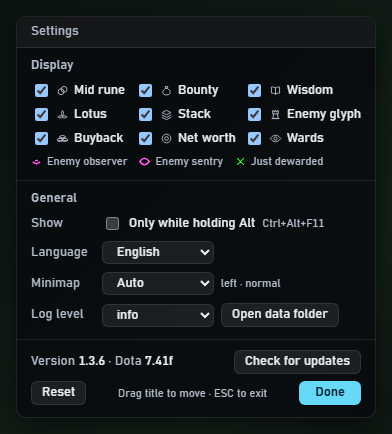
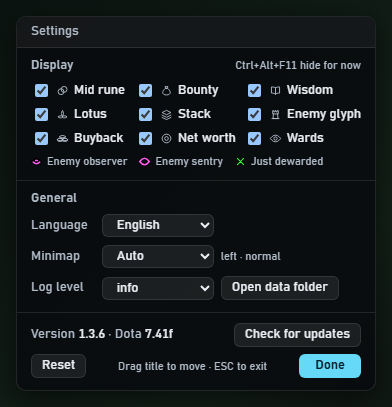
feat: 去掉「按住 Alt 才显示」和 Alt 检测，Ctrl+Alt+F11 改为临时隐藏；倒计时挪到计时牌下、缩到 Plus 的八成
- 对局中一直显示；Ctrl+Alt+F11 临时收起/恢复，不存盘，换下一局自动恢复
- 删除 altkey.rs，程序不再读按键状态；设置卡片去掉「显示方式」，热键提示放在「显示」标题右边
- 倒计时顶边 88 → 42、块缩放 0.72 → 0.58，塞在计时牌和按住 Alt 时的 UNTIL NIGHT 之间
- README、设计文档、待验清单同步

diff --git a/ui/js/main.js b/ui/js/main.js
@@ -1,4 +1,4 @@
-import { connectSource, onAltChange, isTauri } from "./source.js";
+import { connectSource, onToggleHide, isTauri } from "./source.js";
 import { CachePool } from "./cachepool.js";
 import { MatchTracker } from "./match.js";
 import { loadConstants, computeTimers } from "./timers.js";
@@ -6,7 +6,7 @@ import { EventTracker, loadTowers } from "./events.js";
 import { loadPrices, EconTracker } from "./networth.js";
 import { initPanel, render } from "./render.js";
 import { WardTracker, deadTowers } from "./minimap.js";
-import { loadSettings, saveSettings, onSettingsChange } from "./settings.js";
+import { loadSettings, onSettingsChange } from "./settings.js";
 import { initEditor, setEditorOpen } from "./editor.js";
 import { checkUpdate } from "./update.js";
 import { readDotaHud, minimapOpts } from "./dotahud.js";
@@ -24,14 +24,16 @@ if (isTauri()) {
 }
 
 const pool = new CachePool(), match = new MatchTracker(), econ = new EconTracker();
-let tracker = null, C = null, alt = false, last = null, editMode = false;
+let tracker = null, C = null, last = null, editMode = false;
+// 临时隐藏（Ctrl+Alt+F11）：只在内存里，换下一局、重启程序都自动恢复显示
+let hidden = false;
 let wards = null;
 let lastAt = 0;              // 上一包到达的墙钟时间，用来判断 GSI 是不是断了
 // Dota 自己的 HUD 设置：启动时读一次，之后每局开始再读（见 dotahud.js）
 readDotaHud();
 
 // **断流多久算断。** Dota 崩了、被关掉、或者网络断了之后不会有任何通知，
-// `last` 会一直留着最后一包——按住 Alt 仍然显示一份**冻结**的旧面板：
+// `last` 会一直留着最后一包——覆盖层仍然显示一份**冻结**的旧面板：
 // 倒计时不动、净资产不动，而它看起来和正常面板一模一样，比不显示更坏。
 //
 // 阈值要分两档，因为 GSI 配置里 `heartbeat` 是 **30 秒**（见 `gsicfg.rs`）：
@@ -71,7 +73,7 @@ addEventListener("keydown", (ev) => { if (ev.key === "Escape") exitEdit(); });
 connectSource(async (pkt) => {
   const st = pool.update(pkt);
   const info = match.update(st);
-  if (info.newMatch) { pool.reset(); readDotaHud(); }
+  if (info.newMatch) { pool.reset(); readDotaHud(); hidden = false; }
   C = await loadConstants(info.modeOrDefault);
   if (!tracker || info.newMatch) tracker = new EventTracker(C, towers);
   tracker.C = C;                       // 模式判定完成后热切常数
@@ -94,13 +96,7 @@ connectSource(async (pkt) => {
   lastAt = Date.now();
 });
 
-// **只在真的变化时才记日志。** Rust 那边每秒会无条件重发一次当前状态
-// （见 `altkey.rs` 的失步自愈），不过滤的话日志一秒一条。
-// debug 级，默认的 info 下不落盘；真遇上"Alt 变成切换键"再把级别调到 debug 看这条。
-onAltChange((d) => {
-  if (d !== alt) send("debug", `[alt] ${alt} -> ${d}`);
-  alt = d;
-});
+onToggleHide(() => { hidden = !hidden; send("info", `[hide] 临时隐藏 = ${hidden}`); });
 
 // 没有 GSI 数据时的占位，用于编辑态——调设置、看位置对不对，恰恰要在开游戏之前做，
 // 若等到有数据才渲染，没开 Dota 时面板根本不出现。
@@ -127,10 +123,10 @@ setInterval(() => {
   const { st, info } = cur;
   const e = cur.econ;
   render({
-    // 不勾「按住 Alt 才显示」（alwaysShow，默认）也**不绕过 inMatch**：只在对局中显示，
-    // 主菜单里照样消失——它的意思是"不用按 Alt"，不是"永远杵在桌面上"。
+    // **对局中一直显示**（2026-10-14 起；原先有「按住 Alt 才显示」可选，连同 Alt 检测一起去掉了）。
+    // 不绕过 inMatch：主菜单里照样消失，不会杵在桌面上。Ctrl+Alt+F11 可以临时收起。
     // 编辑态则要绕过，调设置这件事恰恰要在开游戏之前做；断流时同理，编辑态里照样看得到最后一刻。
-    visible: editMode || ((alt || cfg.alwaysShow) && info.inMatch && !stale),
+    visible: editMode || (info.inMatch && !stale && !hidden),
     editMode,
     timers: C ? computeTimers(info.clock, C) : [],
     glyph: tracker ? tracker.enemyGlyph(info) : { ready: true, remaining: 0 },
@@ -147,19 +143,17 @@ setInterval(() => {
     ` nw=${e.networth} gpm=${e.gpm}`;
 }, 250);
 
-// 开发快捷键：和正式版同一套热键——Ctrl+Alt+F11 按住 Alt 才显示、Ctrl+Alt+F10 编辑态，
-// v / e 是简写。**v 改的就是卡片上那个「按住 Alt 才显示」**，不另起一份状态——原先是独立的
-// forceShow，两者互不知道。见 design/overlay.md「只有一个值，卡片要跟着它变」。
+// 开发快捷键：和正式版同一套热键——Ctrl+Alt+F11 临时隐藏、Ctrl+Alt+F10 编辑态，v / e 是简写。
 //
 // **只在带 body.dev 的开发页生效**（index.html 没有它）：Tauri 里这两个热键由 Rust 注册成
 // 全局热键，编辑态下 webview 有焦点也会收到同一个按键，这里再切一次就等于没切。
-// 项目主页的 demo 也不带，那里只该有 Alt。
+// 项目主页的 demo 也不带。
 addEventListener("keydown", (ev) => {
   if (!document.body.classList.contains("dev")) return;
   const hot = ev.ctrlKey && ev.altKey;
   const toggleShow = hot ? ev.key === "F11" : ev.key === "v" && !ev.ctrlKey && !ev.altKey;
   const toggleEdit = hot ? ev.key === "F10" : ev.key === "e" && !ev.ctrlKey && !ev.altKey;
   if (toggleShow || toggleEdit) ev.preventDefault();   // F11 在浏览器里是全屏
-  if (toggleShow) saveSettings({ ...cfg, alwaysShow: !cfg.alwaysShow });
+  if (toggleShow) hidden = !hidden;
   if (toggleEdit) applyEdit(!editMode);
 });

diff --git a/ui/js/editor.js b/ui/js/editor.js
@@ -1,4 +1,4 @@
-import { SHOW_KEYS, DEFAULTS, loadSettings, saveSettings, onSettingsChange } from "./settings.js";
+import { SHOW_KEYS, DEFAULTS, loadSettings, saveSettings } from "./settings.js";
 import { isTauri, fetchConstant } from "./source.js";
 import { checkUpdate, lastUpdate, onUpdate, openReleasePage, isInstalled, installUpdate } from "./update.js";
 import { icon, CELL_ICON } from "./icons.js";
@@ -179,14 +179,6 @@ export async function initEditor(cardEl, onDone) {
   card = cardEl; doneCb = onDone;
   new ResizeObserver(() => { if (!card.hidden) reportRect(); }).observe(card);
   await build(await loadSettings());
-  // **「按住 Alt 才显示」还能从卡片外面改**（Ctrl+Alt+F11、托盘、网页里的 v 键），勾要跟着变。
-  // 不跟的话卡片攥着旧值，进编辑态随便动一下别的，collect() 就把旧值存回去，
-  // 刚切的状态被悄悄改回。**只同步这一个**：其余控件只有卡片自己改，而改控件时
-  // settings 事件是异步回来的，套回去控件会往回跳。按 id 现查，切语言会整卡重建。
-  onSettingsChange((v) => {
-    const el = card.querySelector("#edAltOnly");
-    if (el && typeof v?.alwaysShow === "boolean") el.checked = !v.alwaysShow;
-  });
 }
 
 /** 建卡片和绑事件必须是同一个函数：切语言要整个 innerHTML 重建，
@@ -203,7 +195,7 @@ async function build(s) {
   // 不在卡片里放 devTools 的开关——录制刻意不让普通用户看到，见 design/overlay.md「开发区」。
   card.innerHTML = `
     <div class="ed-bar">${t("card.title")}</div>
-    <div class="ed-sec">${t("card.show")}</div>
+    <div class="ed-sec ed-sec-row">${t("card.show")}<span class="ed-note">Ctrl+Alt+F11 ${t("card.tempHide")}</span></div>
     <div class="ed-grid">${SHOW_KEYS.map(k =>
       `<label class="ed-chk"><input type="checkbox" data-show="${k}"${
         s.show?.[k] !== false ? " checked" : ""
@@ -212,9 +204,6 @@ async function build(s) {
     <div class="ed-sep"></div>
     <div class="ed-sec">${t("card.general")}</div>
     <div class="ed-form">
-      <span>${t("card.showMode")}</span>
-      <label class="ed-chk"><input id="edAltOnly" type="checkbox"${s.alwaysShow ? "" : " checked"}>${t("card.altOnly")}
-        <span class="ed-note">Ctrl+Alt+F11</span></label>
       <span>${t("card.lang")}</span>
       <select id="edLang">${LANGS.map(([v, name]) =>
         `<option value="${v}">${name}</option>`).join("")}</select>
@@ -251,14 +240,10 @@ async function build(s) {
     </div>`;
 
   const $ = (id) => card.querySelector("#" + id);
-  const         log = $("edLog"), record = $("edRecord"), lang = $("edLang"),
-        altOnly = $("edAltOnly"), mm = $("edMm");
+  const log = $("edLog"), record = $("edRecord"), lang = $("edLang"), mm = $("edMm");
   log.value = s.logLevel ?? DEFAULTS.logLevel;
   // 录制那几行只在 devTools 为真时才建（见 design/overlay.md「开发区」），不建就是 null
   if (record) record.checked = !!s.recordMatches;
-  // 存盘的字段仍叫 alwaysShow（老配置文件照常读），界面上反过来：勾 = 只在按住 Alt 时显示。
-  // 默认是一直显示，开关只描述那个例外（2026-10-10 用户定）
-  altOnly.checked = s.alwaysShow === false;
   lang.value = s.lang ?? DEFAULTS.lang;
   mm.value = MINIMAP_MODES.includes(s.minimap) ? s.minimap : "auto";
   // 「自动」时在后面写出读到的是什么（左下 · 普通），读不到也说一声——
@@ -275,7 +260,6 @@ async function build(s) {
   const collect = () => ({
     show: Object.fromEntries([...card.querySelectorAll("[data-show]")]
       .map(el => [el.dataset.show, el.checked])),
-    alwaysShow: !altOnly.checked,
     minimap: mm.value,
     logLevel: log.value,
     recordMatches: record ? record.checked : !!s.recordMatches,
@@ -307,16 +291,13 @@ async function build(s) {
     if (!card.hidden) keepInView();
   });
 
-  // 「重置」把这张卡片管的外观一次还原：九个勾 + 按住 Alt 才显示（回到不勾）+ 小地图回到「自动」。
+  // 「重置」把这张卡片管的外观一次还原：九个勾 + 小地图回到「自动」。
   // （块的位置 2026-10-08 起跟着 Dota 的界面走、不能拖，也就没有摆位要还原了。）
-  // **「按住 Alt 才显示」也还原成默认**（不勾，即一直显示）：它是外观行为、和显示项同类，
-  // 还原它不会造成任何数据损失。
   // 开发区那两项不动——悄悄关掉正在录的对局，用户不会知道自己丢了数据。
   // **语言也不动**：重置回中文会让看不懂中文的用户无法退出这个状态，
   // 用户得先猜出哪一行是语言、再猜哪个选项是英文。可恢复性是重置的前提。
   $("edReset").addEventListener("click", () => {
     for (const el of card.querySelectorAll("[data-show]")) el.checked = DEFAULTS.show[el.dataset.show];
-    altOnly.checked = !DEFAULTS.alwaysShow;
     mm.value = DEFAULTS.minimap;
     mmRefresh();
     saveSettings(collect());

diff --git a/ui/js/render.js b/ui/js/render.js
@@ -2,7 +2,7 @@ import { initWardMap, renderWardMap } from "./wardmap.js";
 import { icon, CELL_ICON } from "./icons.js";
 import { initTopbar, renderTopbar } from "./topbar.js";
 
-// Alt 面板渲染。DOM 只在 initPanel 建一次，render 仅改文本/类名/CSS 变量，避免每帧重建。
+// 覆盖层渲染。DOM 只在 initPanel 建一次，render 仅改文本/类名/CSS 变量，避免每帧重建。
 const R = 26, CIRC = 2 * Math.PI * R;
 // 顺序跟 Dota Plus 自带的符文倒计时一致（中路 / 赏金 / 智慧 / 莲花 / 野怪，2026-10-08 起），
 // 用过 Dota Plus 的人不用重新记位置
@@ -141,21 +141,24 @@ export function render(m) {
     块的大小同样按屏高缩放——换分辨率时它和游戏界面一起变大变小。
     （原先还乘一个用户的「缩放」滑块、另有「整体透明度」滑块，2026-10-08 一并去掉：
     位置和大小都已经跟着游戏界面定好了，再给一个能调的旋钮只会把它调歪。）
-      · 倒计时：紧贴顶栏中间那块计时牌下面、水平居中，圆环顶边在 44（计时牌底边约 41）。
+      · 倒计时：紧贴顶栏中间那块计时牌下面、水平居中，圆环顶边在 42（计时牌底边约 40），见下面 TIMERS_TOP。
         只有圆环没有数字，整排宽约 ±112，夹在两侧最靠中线的买活（±118 起）之间
       · 净资产：Dota 左上角「击 / 死 / 助」那块面板的**右边**，和它的两行字齐平。
         原先放在面板下面，会挡住 Dota 在那里显示的挑战目标（用户实测，2026-10-08）；
         面板文字右边缘约在 160、两行字的顶边在 65（量自 2560×1600 的实战截图）。
         右边一直空到顶栏左端的塔防（离中线 533，16:10 上约在 331），够放 */
-// 倒计时让开计时牌下面那一行：按住 Alt 时游戏在那儿写"5:00 UNTIL NIGHT"，开局号角前也有提示。
-// 那行字占 73~84（1080 高下），顶栏底边到它只有 34 的空当，而环本身 36 高，塞不进去，
-// 只能整排挪到字下面。2026-10-12：44 → 50（用户要求下移一点）→ 88（用户要求不挡那行字）
-const TIMERS_TOP = 88, ECON_TOP = 64, ECON_LEFT = 175;
+// 倒计时紧贴计时牌底边（约 40），**塞在计时牌和下面那行字之间**：按住 Alt 时游戏在 73~84
+// 写"5:00 UNTIL NIGHT"，开局号角前也有提示。空当只有约 33，所以环缩到外径约 28（见 BASE），上下各留 2~3。
+// 不按 Alt 时那一块游戏什么都不放（Dota Plus 自带的符文倒计时也只在按住 Alt 时出现），环就贴着计时牌，
+// 和开了 Plus 的样子一样。经过：44 → 50（用户要求下移一点）→ 88（挪到字下面，不挡字；
+// 但不按 Alt 时悬在半空、按住 Alt 时和队友的 TP 圈挤成一排）→ 42（2026-10-14，挪到字上面）
+const TIMERS_TOP = 42, ECON_TOP = 64, ECON_LEFT = 175;
 // 各块自己的基准大小。倒计时原先 0.62：圆环直径约 32，去掉数字之后一排五个刚好塞进
 // 计时牌下面、两侧买活中间那块空地（用户指定的位置，2026-10-08）；之后缩到 0.5 嫌小，回到 0.6；
-// 再参照 Dota Plus 的符文倒计时加了底盘、放到 0.72（直径约 37，和它差不多大），
-// 同时把格子从 60 收到 52，整排不变宽
-const BASE = { timers: 0.72, econ: 1 };
+// 再参照 Dota Plus 的符文倒计时加了底盘、放到 0.72（实测外径约 35，Plus 自带的约 34、中心距约 40，
+// 我们 42——比例基本一样），同时把格子从 60 收到 52，整排不变宽。
+// 2026-10-14 挪到计时牌和 UNTIL NIGHT 之间，空当放不下 Plus 那么大的环，整体缩到 0.58（外径约 28，Plus 的八成）
+const BASE = { timers: 0.58, econ: 1 };
 // 块的边框 1 + 上内边距 8：内容顶边离块顶边多远（未缩放）
 const INSET = 9;
 

diff --git a/ui/css/overlay.css b/ui/css/overlay.css
@@ -355,6 +355,9 @@ html, body {
 /* ── 设置卡片：一页 ──────────────────────────────────
    原先分四个图标页签（显示项 / 面板 / 图例 / 开发）；内容删减后一页放得下（2026-10-09）。 */
 .ed-sec { color: var(--dim); font-weight: 600; margin: 0 0 7px; }
+/* 「显示」这一节标题右边写临时隐藏的热键（原先写在「按住 Alt 才显示」那个勾后面，2026-10-14 那个勾去掉了） */
+.ed-sec-row { display: flex; justify-content: space-between; align-items: baseline; }
+.ed-sec-row .ed-note { font-weight: 400; }
 /* 九个显示项排三列三行（原先两列五行），卡片因此矮了两行 */
 .ed-grid { display: grid; grid-template-columns: repeat(3, 1fr); gap: 5px 8px; }
 .ed-grid .ed-chk { white-space: nowrap; gap: 5px; }

diff --git a/ui/js/source.js b/ui/js/source.js
@@ -90,12 +90,8 @@ async function replayFile(url, onPacket, speed, loop) {
   tick();
 }
 
-export function onAltChange(cb) {
-  if (isTauri()) {
-    window.__TAURI__.event.listen("alt", (e) => cb(e.payload === true));
-    return;
-  }
-  addEventListener("keydown", (e) => { if (e.key === "Alt") { e.preventDefault(); cb(true); } });
-  addEventListener("keyup",   (e) => { if (e.key === "Alt") { e.preventDefault(); cb(false); } });
-  addEventListener("blur", () => cb(false));
+/** Ctrl+Alt+F11（全局热键，Rust 注册）按一下就回调一次：切换临时隐藏。
+    浏览器里没有全局热键，开发页的同一组键在 main.js 里直接处理。 */
+export function onToggleHide(cb) {
+  if (isTauri()) window.__TAURI__.event.listen("toggle-hide", () => cb());
 }

diff --git a/ui/js/minimap.js b/ui/js/minimap.js
@@ -201,8 +201,8 @@ export class WardTracker {
       }
       this.own.delete(key);
     }
-    // 被排的叉保留多久。**原先写死 3 秒，太短了**——面板默认按住 Alt 才出现，
-    // 3 秒意味着那一眼没正好按下去就彻底错过。走常数表，用户嫌长嫌短都能自己改。
+    // 被排的叉保留多久。**原先写死 3 秒，太短了**——那时面板要按住 Alt 才出现，
+    // 3 秒意味着那一眼没正好按下去就彻底错过。走常数表（现在 45 秒）。
     this.killed = this.killed.filter(k => clock - k.at < killedShow(this.C));
 
     // 我方真眼此刻的位置。用本包看到的而不是 this.own：真眼要是同一刻也没了，

diff --git a/site/index.html b/site/index.html
@@ -287,8 +287,8 @@
   }
 
   // ── demo ────────────────────────────────────────
-  // **不再演示按 Alt**（v1.4.0）：默认对局中一直显示，
-  // 「按住 Alt 才显示」降成了可选项。demo 就照默认的样子常显。
+  // **不再演示按 Alt**（v1.4.0）：对局中一直显示（2026-10-14 起没有「按住 Alt 才显示」了），
+  // demo 就照这个样子常显。
   const frame = document.getElementById("demo");
   function fit() { frame.style.transform = `scale(${frame.parentElement.clientWidth / 900})`; }
   addEventListener("resize", fit);

diff --git a/ui/js/settings.js b/ui/js/settings.js
@@ -8,7 +8,6 @@ export const SHOW_KEYS = ["mid", "bounty", "wisdom", "lotus", "stack",
 // 这份只在浏览器开发时用得上。
 export const DEFAULTS = {
   show: Object.fromEntries(SHOW_KEYS.map(k => [k, true])),
-  alwaysShow: true,    // 默认开（2026-10-09 起）
   // 小地图在哪、多大：auto = 读 Dota 自己的设置，见 dotahud.js
   minimap: "auto",
   logLevel: "info", recordMatches: false, devTools: false, lang: "zh-CN",

diff --git a/ui/dev.html b/ui/dev.html
@@ -27,7 +27,7 @@
 <div id="panel"></div>
 <div id="editor" hidden></div>
 <div id="hud"></div>
-<div id="tips">按住 Alt 显示 · v / Ctrl+Alt+F11 按住 Alt 才显示 · e / Ctrl+Alt+F10 编辑态 · b 换背景</div>
+<div id="tips">v / Ctrl+Alt+F11 临时隐藏 · e / Ctrl+Alt+F10 编辑态 · b 换背景</div>
 <script type="module" src="js/main.js"></script>
 <script>
   const BGS = [

diff --git a/src-tauri/src/main.rs b/src-tauri/src/main.rs
@@ -1,6 +1,5 @@
 #![cfg_attr(not(debug_assertions), windows_subsystem = "windows")]
 
-mod altkey;
 mod constants;
 mod dotacfg;
 mod gsi;
@@ -49,16 +48,16 @@ pub fn set_edit(app: &tauri::AppHandle, on: bool) {
 pub const EDIT_HOTKEY: &str = "ctrl+alt+F10";
 pub const EDIT_HOTKEY_LABEL: &str = "Ctrl+Alt+F10";
 
-/// 「按住 Alt 才显示」开关的热键。给人看的写法在设置卡片那个勾后面（`ui/js/editor.js`），
-/// 改这里记得改那边。
+/// 临时隐藏覆盖层的热键：按一下收起、再按一下恢复。**不存盘**，前端记着，换下一局或重启程序自动恢复显示。
+/// 给人看的写法在设置卡片底部的提示里（`card.hint`），改这里记得改那边。
 ///
-/// **为什么值得占一个全局热键**：默认对局中一直显示（v1.4.0 起），某个时刻嫌它挡东西，
-/// 想不切出游戏就把它收起来，只有这一条路——进设置卡片会抢焦点，那一刻没法继续玩。
-/// 托盘里原先也有这个开关，2026-10-10 去掉了：打游戏时任务栏被盖住，点托盘得先切出去。
+/// 原先是「按住 Alt 才显示」那个开关的热键；2026-10-14 那个开关连同 Alt 检测一起去掉了
+/// （对局中一直显示），这个键留下来当临时隐藏——截干净的游戏截图、某一刻嫌它挡东西时用，
+/// 不切出游戏就能收起来（进设置卡片会抢焦点，那一刻没法继续玩）。
 ///
 /// **不能用裸字母**：Dota 几乎把字母键占满了。带两个修饰键的 F 区组合不会撞游戏，
 /// 和编辑态的 `Ctrl+Alt+F10` 挨着，同一族好记。
-pub const ALWAYS_HOTKEY: &str = "ctrl+alt+F11";
+pub const HIDE_HOTKEY: &str = "ctrl+alt+F11";
 
 pub fn toggle_edit(app: &tauri::AppHandle) {
     set_edit(app, !EDIT.load(Ordering::Relaxed));
@@ -80,7 +79,7 @@ fn main() {
         .plugin(tauri_plugin_updater::Builder::new().build())
         .plugin(
             tauri_plugin_global_shortcut::Builder::new()
-                .with_shortcuts([EDIT_HOTKEY, ALWAYS_HOTKEY])
+                .with_shortcuts([EDIT_HOTKEY, HIDE_HOTKEY])
                 .expect("注册全局热键失败")
                 .with_handler(|app, shortcut, event| {
                     if event.state() != ShortcutState::Pressed {
@@ -93,8 +92,9 @@ fn main() {
                     };
                     if is(EDIT_HOTKEY) {
                         toggle_edit(app);
-                    } else if is(ALWAYS_HOTKEY) {
-                        settings::toggle_always_show(app);
+                    } else if is(HIDE_HOTKEY) {
+                        let _ = app.emit("toggle-hide", ());
+                        logf!(Level::Info, "[hide] 切换临时隐藏");
                     }
                 })
                 .build(),
@@ -114,7 +114,6 @@ fn main() {
             constants::log_version();
             record::init(app.handle());          // 必须在 gsi 之前：第一包来的时候它得已经在
             gsi::spawn(app.handle().clone());
-            altkey::spawn(app.handle().clone());
             hittest::spawn(app.handle().clone());
             gsicfg::ensure_cfg();
             Ok(())

diff --git a/src-tauri/src/settings.rs b/src-tauri/src/settings.rs
@@ -11,8 +11,6 @@ fn defaults() -> serde_json::Value {
         "show": { "mid": true, "bounty": true, "wisdom": true, "lotus": true,
                   "stack": true, "glyph": true, "buyback": true, "econ": true,
                   "wardmap": true },
-        // 默认开（2026-10-09 起，原先默认关、按住 Alt 才显示）。老用户的 settings.json 里存着自己的值，不受影响
-        "alwaysShow": true,
         // 小地图在哪、多大：auto = 读 Dota 自己的设置（dotacfg.rs），其余是手动指定
         "minimap": "auto",
         "logLevel": "info",
@@ -52,18 +50,6 @@ pub fn load(app: &tauri::AppHandle) -> serde_json::Value {
 #[tauri::command]
 pub fn get_settings(app: tauri::AppHandle) -> serde_json::Value {
     load(&app)
-}
-
-/// 翻转「按住 Alt 才显示」（存盘字段是它的反面 alwaysShow）。给全局热键用。
-///
-/// 走 `set_settings` 而不是自己写盘：那条路上挂着给前端的 `settings` 事件（卡片上的勾要跟着变），
-/// 绕过去就会各改各的。
-pub fn toggle_always_show(app: &tauri::AppHandle) {
-    let mut v = load(app);
-    let now = !v["alwaysShow"].as_bool().unwrap_or(true);
-    v["alwaysShow"] = serde_json::Value::Bool(now);
-    set_settings(app.clone(), v);
-    crate::logf!(crate::log::Level::Info, "[settings] alwaysShow = {now}（按住 Alt 才显示 = {}）", !now);
 }
 
 /// 写盘时**盖在盘上那份之上**，不是盖在默认值之上。前端只收卡片上有的控件，

diff --git a/src-tauri/src/tray.rs b/src-tauri/src/tray.rs
@@ -15,8 +15,8 @@ static SWALLOW_UP: AtomicBool = AtomicBool::new(false);
 /// 设置本身就是编辑态里那张卡片，不再有独立设置窗口。
 ///
 /// 原先还有一项带勾的「始终显示」，给对局中途切换用。2026-10-10 去掉了：
-/// 打游戏时无边框窗口盖住任务栏，点托盘得先切出游戏；中途切换靠的是 `Ctrl+Alt+F11`，
-/// 设置卡片里也有同一个开关（v1.4.0 起改叫「按住 Alt 才显示」）。
+/// 打游戏时无边框窗口盖住任务栏，点托盘得先切出游戏。2026-10-14 这个开关整个去掉了（对局中一直显示），
+/// `Ctrl+Alt+F11` 改成临时隐藏，见 main.rs 的 `HIDE_HOTKEY`。
 fn build_menu(app: &tauri::AppHandle) -> tauri::Result<Menu<tauri::Wry>> {
     // 热键拼在 Rust 里，不进语言包：`Ctrl+Alt+F10` 两种语言一个样。
     //
